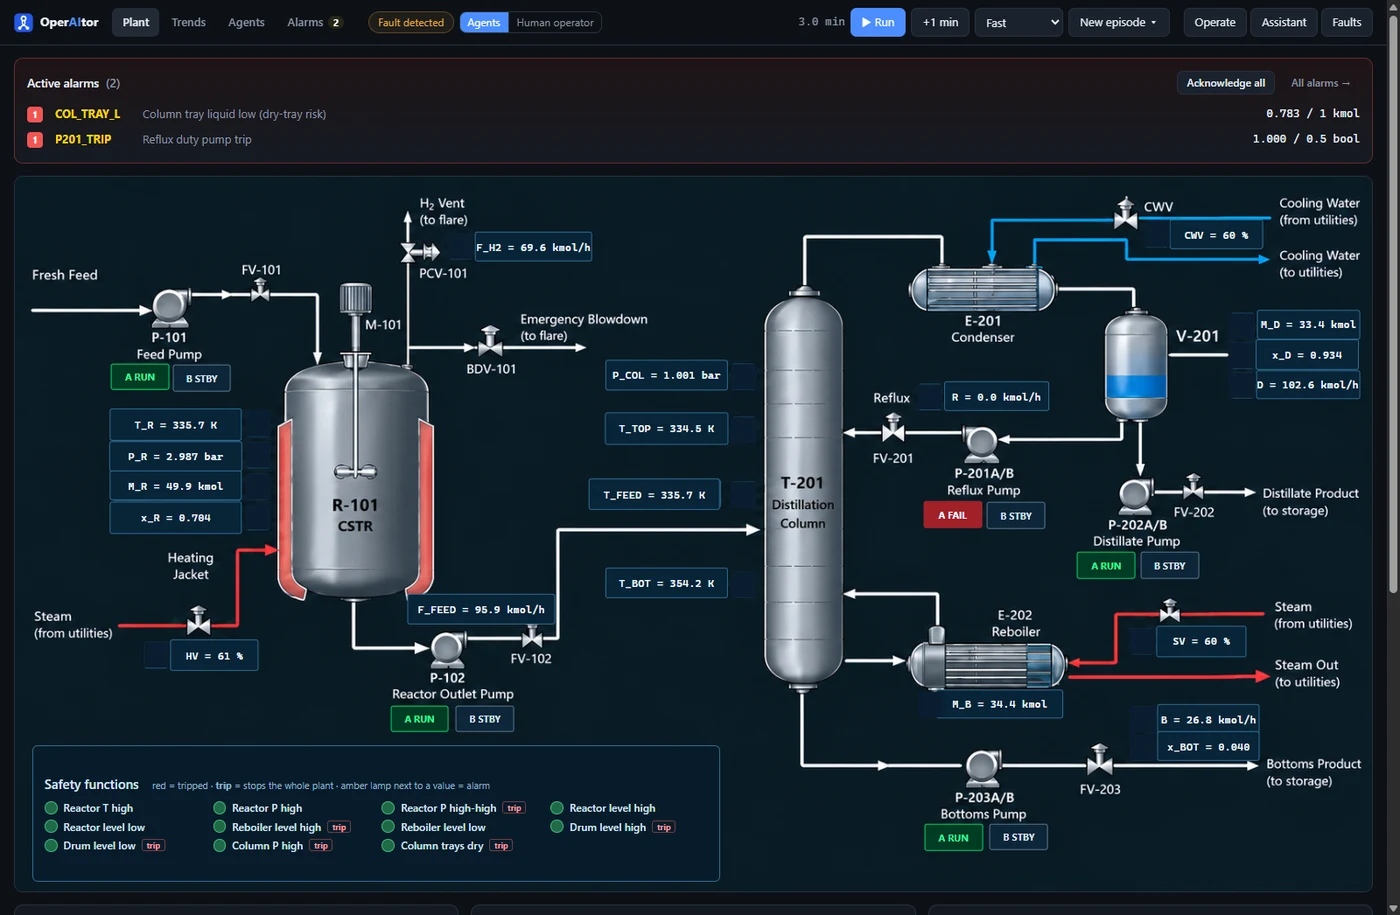
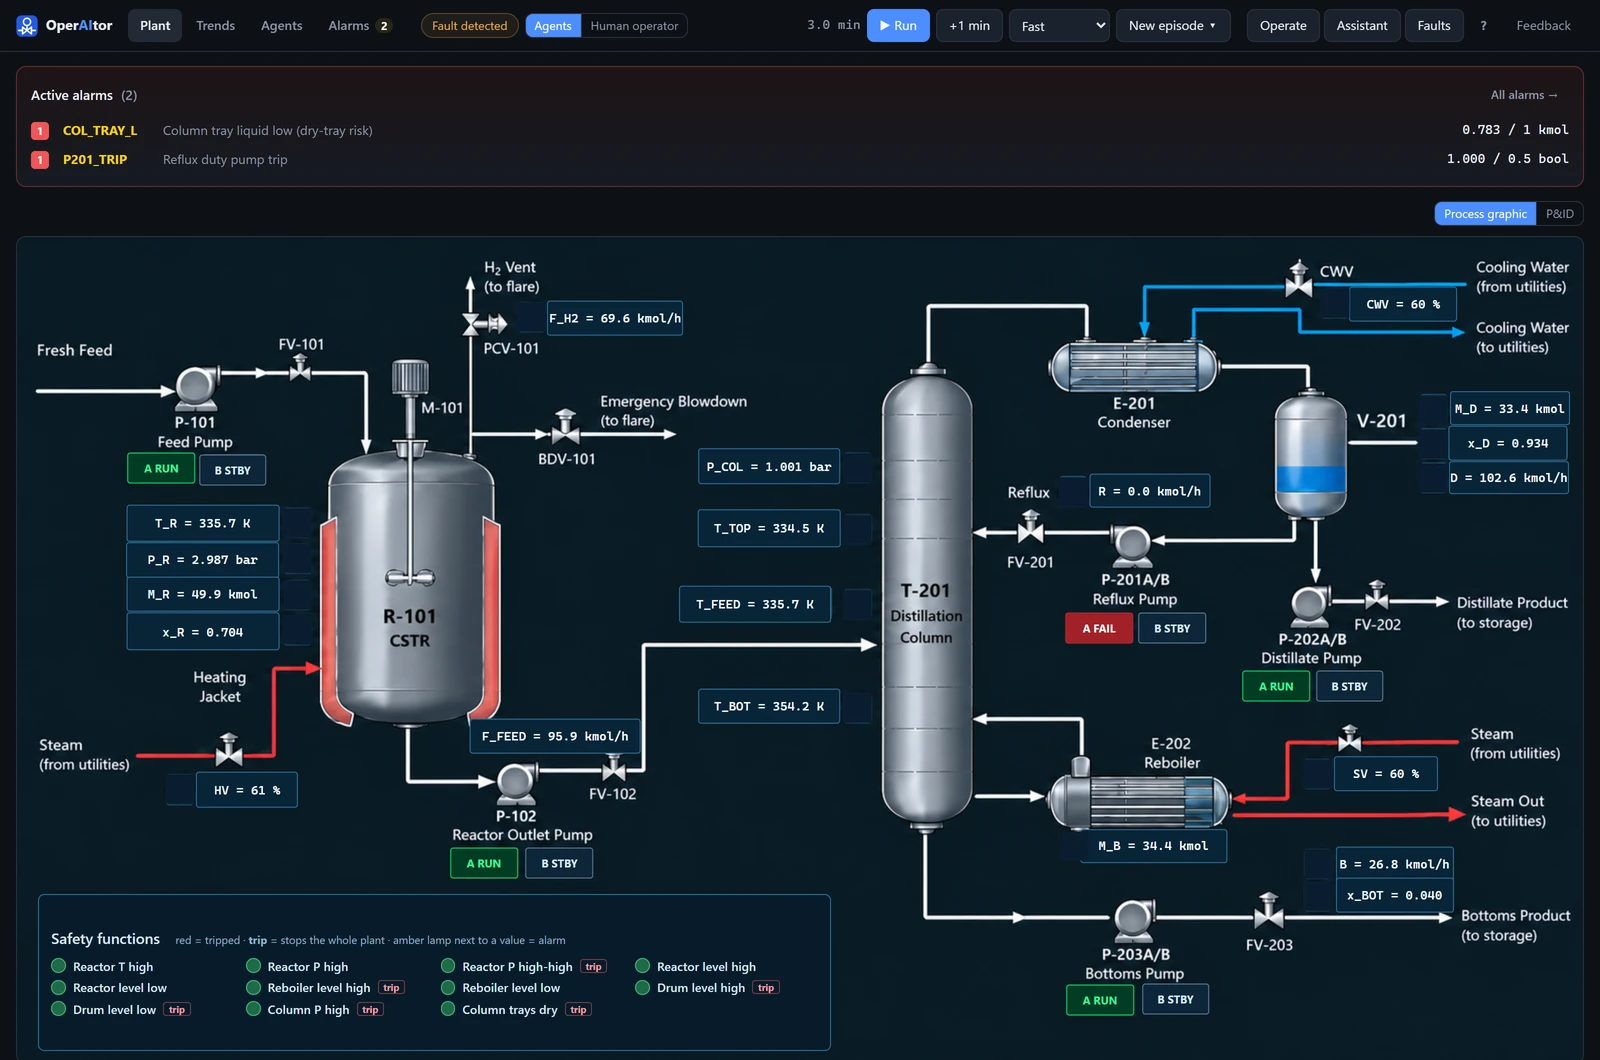
Project page: a sharp console screenshot; header fits one row again
The landing page's screenshot looked grainy for two reasons:
- it was 1400 px wide and heavily compressed, so a retina screen
  stretched it to about twice its size;
- the window frame was tilted in 3D (perspective + rotateX), which
  resamples the image and blurs its text at any resolution.

Recaptured the same scene (reflux pump trip with its alarms) at 2x
(3200 x 2120) with a 1600 px version, served with srcset, and the frame is
now flat.

The console's Tour button is now a compact "?" (aria-label "Tour"), which
helps the header stay on one row.

Test (e2e): on a 2x screen the page loads the 2x image, has at least two
image pixels per screen pixel, and draws it without a transform.

Changed region(s): [[0.0, 0.0, 1.0, 1.0], [0.0, 0.0, 0.0614, 0.0306], [0.2764, 0.0, 0.3071, 0.0306]]

diff --git a/site/index.html b/site/index.html
@@ -82,7 +82,8 @@ h1 em { display: block; font-family: var(--serif); font-style: italic; font-weig
 .stage::before { content: ""; position: absolute; inset: 10% 8% -4%; z-index: -1; filter: blur(70px); border-radius: 40px;
   background: linear-gradient(120deg, rgba(79, 125, 255, .45), rgba(90, 209, 255, .22), rgba(255, 200, 97, .16)); }
 .window { margin: 0; border-radius: 16px; overflow: hidden; border: 1px solid var(--line-2); background: #0d1117;
-  box-shadow: 0 40px 120px -30px rgba(0, 0, 0, .9); transform: perspective(1800px) rotateX(5deg); transform-origin: 50% 100%; }
+  box-shadow: 0 40px 120px -30px rgba(0, 0, 0, .9); }
+/* flat on purpose: a 3D tilt resamples the screenshot and blurs its text */
 .window .chrome { display: flex; align-items: center; gap: 7px; padding: 11px 14px; background: linear-gradient(#161d29, #121823); border-bottom: 1px solid var(--line); }
 .window .chrome i { width: 11px; height: 11px; border-radius: 50%; display: block; }
 .window .chrome i:nth-child(1) { background: #ff5f57; } .window .chrome i:nth-child(2) { background: #febc2e; } .window .chrome i:nth-child(3) { background: #28c840; }
@@ -97,7 +98,7 @@ h1 em { display: block; font-family: var(--serif); font-style: italic; font-weig
 .callout.c1 { left: -26px; top: 26%; } .callout.c1 .dot { background: rgba(255, 107, 107, .15); color: var(--red); }
 .callout.c2 { right: -26px; top: 60%; animation-delay: -3s; } .callout.c2 .dot { background: rgba(61, 220, 151, .14); color: var(--green); }
 @keyframes float { 50% { transform: translateY(-8px); } }
-@media (max-width: 900px) { .callout { display: none; } .window { transform: none; } }
+@media (max-width: 900px) { .callout { display: none; } }
 .cap { color: var(--dim); font-size: 13.5px; margin: 20px 0 0; }
 
 /* ------------------------------------------------------------------ numbers */
@@ -320,7 +321,7 @@ footer nav { display: flex; gap: 22px; flex-wrap: wrap; }
       <div class="stage reveal">
         <figure class="window">
           <div class="chrome" aria-hidden="true"><i></i><i></i><i></i><span>operaitor · console</span></div>
-          <img src="assets/plant.webp" width="1400" height="915"
+          <img src="assets/plant.webp" srcset="assets/plant.webp 1x, assets/plant@2x.webp 2x" width="1600" height="1060"
             alt="OperAItor console: process graphic of a reactor and distillation column with alarms, safety functions and live values, during a reflux pump trip">
         </figure>
         <div class="callout c1" aria-hidden="true">

diff --git a/frontend/e2e/site.spec.ts b/frontend/e2e/site.spec.ts
@@ -85,3 +85,18 @@ test("the page presents a beta benchmark to run, with the original runs as refer
   await expect(report).toHaveAttribute("href", /issues\/new\/choose$/);
   await expect(page.locator(".beta a", { hasText: "model scope" })).toHaveAttribute("href", /plant-model\.md#model-scope/);
 });
+
+test.describe("on a high-resolution (retina) screen", () => {
+  test.use({ deviceScaleFactor: 2 });
+  test("the console screenshot is sharp: the 2x image, drawn flat", async ({ page }) => {
+    await openSite(page, [RC3]);
+    const shot = page.locator(".window img");
+    await shot.scrollIntoViewIfNeeded();
+    await expect.poll(() => shot.evaluate((i: HTMLImageElement) => i.complete && i.naturalWidth > 0)).toBe(true);
+    expect(await shot.evaluate((i: HTMLImageElement) => i.currentSrc)).toMatch(/plant@2x\.webp$/);
+    // at least two image pixels per screen pixel, and no 3D tilt (it resamples the image and blurs the text)
+    const [natural, shown] = await shot.evaluate((i: HTMLImageElement) => [i.naturalWidth * 2, i.clientWidth]);
+    expect(natural).toBeGreaterThanOrEqual(shown * 2);
+    expect(await page.locator(".window").evaluate((w) => getComputedStyle(w).transform)).toBe("none");
+  });
+});

diff --git a/frontend/src/components/TopBar.tsx b/frontend/src/components/TopBar.tsx
@@ -153,7 +153,7 @@ export function Header({ tab, onTab, drawer, onDrawer, onTour }:
           <button key={d.id} className={`btn ${drawer === d.id ? "on" : ""}`} aria-pressed={drawer === d.id} title={d.title}
             onClick={() => onDrawer(d.id)}>{d.label}</button>
         ))}
-        <button className="btn ghost" title="A guided tour of the console: how to play with the plant" onClick={onTour}>Tour</button>
+        <button className="btn ghost tour-btn" aria-label="Tour" title="Tour: a guided walkthrough of how to play with the plant" onClick={onTour}>?</button>
         <button className="btn ghost" title="Report a bug or give feedback (opens a GitHub issue, filled in)"
           onClick={() => setFeedback(true)}>Feedback</button>
         {desktop && <button className="btn ghost" title="Stop OperAItor on this computer" onClick={quitApp}>Quit OperAItor</button>}

diff --git a/frontend/src/components/Tour.tsx b/frontend/src/components/Tour.tsx
@@ -72,7 +72,7 @@ export const STEPS: Step[] = [
       the same faults the agents face.</> },
   { title: "You are ready", target: '.header button[title^="Report a bug"]',
     body: <>If the plant trips, <b>↻ Restart</b> or <b>New episode</b> starts again. Found a bug or have an idea?
-      <b> Feedback</b> opens a GitHub issue, already filled in. Replay this tour from <b>Tour</b> at any time.</> },
+      <b> Feedback</b> opens a GitHub issue, already filled in. Replay this tour from <b>?</b> in the header at any time.</> },
 ];
 
 type Box = { top: number; left: number; width: number; height: number };

diff --git a/frontend/src/styles.css b/frontend/src/styles.css
@@ -521,3 +521,4 @@ a.btn { text-decoration: none; }
 .tour-buttons { display: flex; gap: 6px; align-items: center; }
 .tour-buttons .spacer { flex: 1; }
 @media (prefers-reduced-motion: reduce) { .tour-hole { transition: none; } }
+.tour-btn { width: 32px; padding-left: 0; padding-right: 0; justify-content: center; font-weight: 700; }
